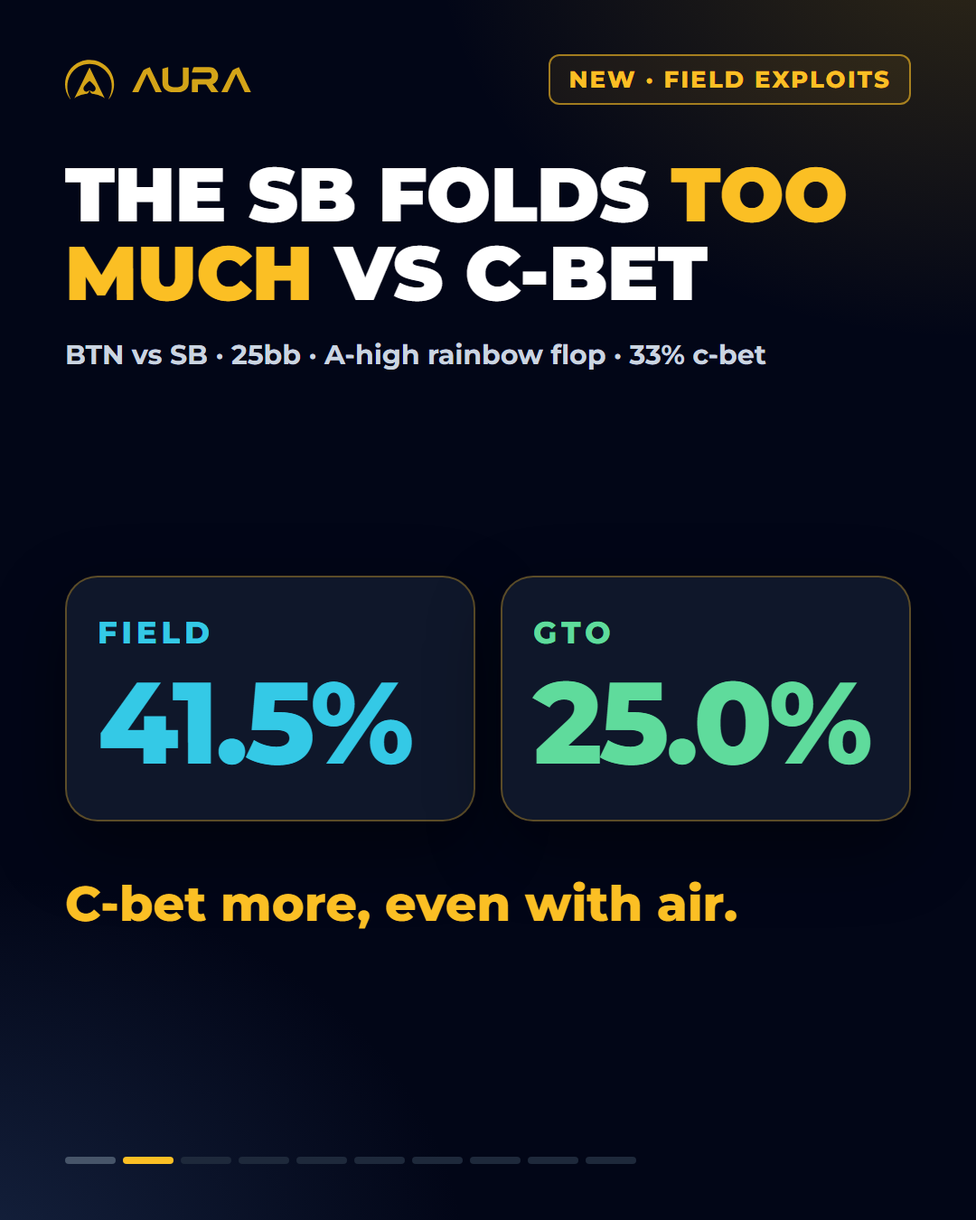
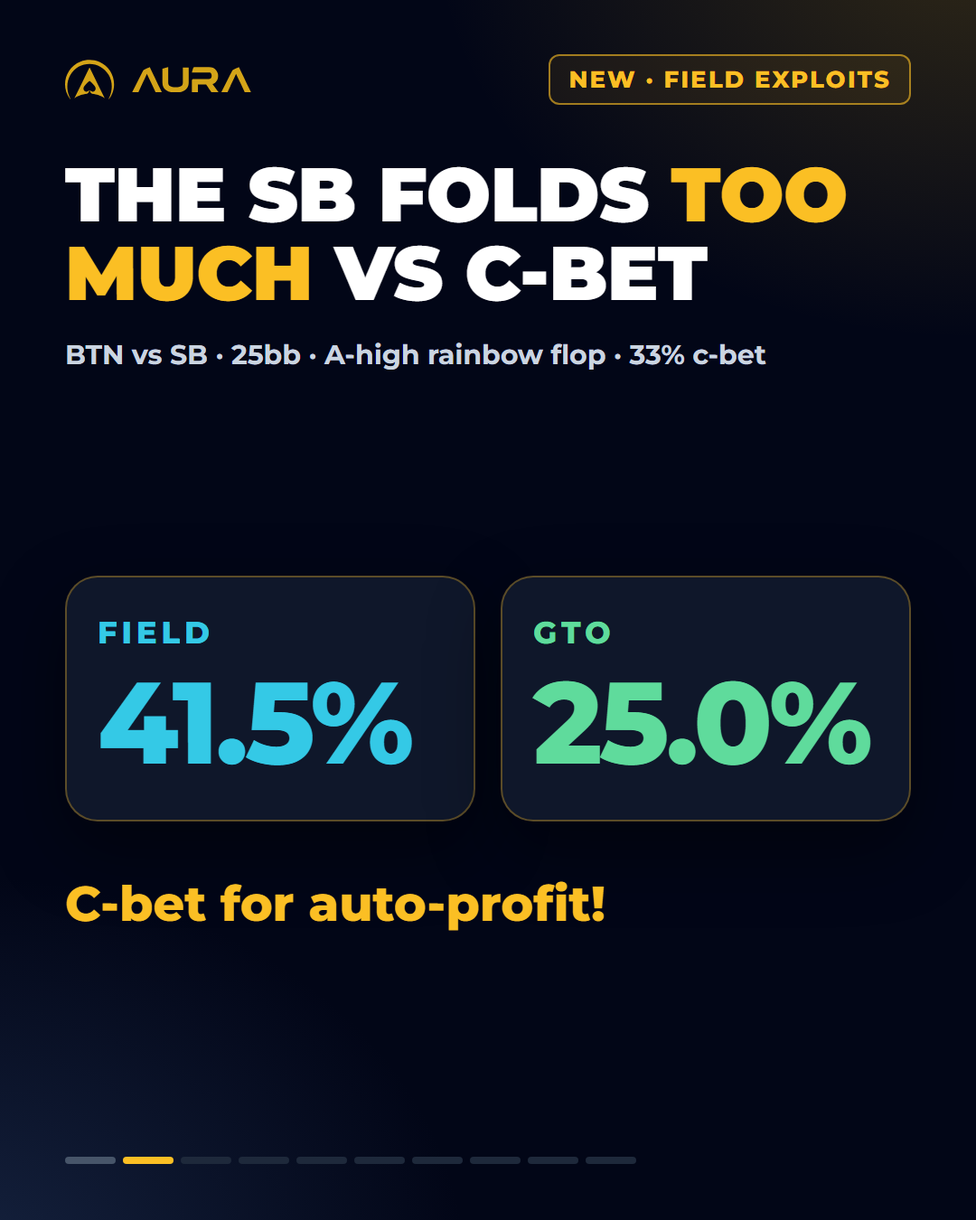
feat(ads): carrossel SINAL01 com os ajustes do Rafael (slides 2, 6 e 9)
- Slide 2: a linha de ação vira "C-bet for auto-profit!", nos dois idiomas.
- Slide 6: os ranges do field e do GTO ficam lado a lado, com as mãos que diferem em âmbar.
- Slide 9: a lista de módulos fica sem "GTO Mode" e com a Aura IA.

Changed region(s): [[0.2139, 0.7156, 0.7333, 0.7778]]

diff --git a/content/ads/sinal01/carrossel/fonte/en/carrossel-en-06.html b/content/ads/sinal01/carrossel/fonte/en/carrossel-en-06.html
@@ -8,8 +8,8 @@
 <path d="M306.766 264.784H384.095C387.141 264.784 389.709 264.054 391.785 262.581C393.862 261.12 395.448 258.853 396.555 255.794C397.046 254.572 397.411 253.351 397.65 252.13C397.889 250.782 398.015 249.448 398.015 248.1C398.015 244.801 397.462 241.993 396.367 239.664C395.272 237.221 393.623 235.269 391.42 233.796C390.325 233.066 389.155 232.575 387.934 232.336C386.713 231.97 385.429 231.782 384.083 231.782H299.429C300.889 226.896 303.091 219.618 306.024 209.973C306.515 208.386 307.37 207.102 308.591 206.12C309.938 205.138 311.461 204.659 313.173 204.659H384.448C392.264 204.659 399.224 206.07 405.34 208.877C411.445 211.811 416.706 216.092 421.098 221.708C424.144 225.864 426.41 230.258 427.882 234.904C429.468 239.425 430.261 244.31 430.261 249.573C430.261 255.806 429.166 261.485 426.963 266.622C424.887 271.634 421.765 276.154 417.612 280.184C415.409 282.261 413.031 284.1 410.463 285.686C407.895 287.147 405.152 288.381 402.219 289.35C409.305 298.882 419.865 313.186 433.923 332.25H398.015C391.911 323.335 382.685 309.887 370.351 291.919H329.673V332.25H299.441V272.314C299.441 270.236 300.171 268.461 301.644 267C303.104 265.54 304.815 264.797 306.779 264.797L306.766 264.784Z"/>
 <path d="M476.263 332.237H445.112C454.275 314.156 463.374 296.062 472.411 277.98C481.574 259.899 490.737 241.804 499.899 223.723C500.755 222.262 501.787 220.915 503.021 219.694C504.241 218.598 505.588 217.679 507.048 216.949C511.567 214.871 516.022 212.793 520.427 210.716C524.946 208.638 529.401 206.624 533.806 204.672C547.361 233.028 567.763 275.55 595 332.25H563.673C556.348 316.611 549.01 301.023 541.685 285.51C534.36 269.871 526.959 254.232 519.521 238.581C512.309 254.22 505.11 269.871 497.898 285.51C490.686 301.035 483.487 316.611 476.275 332.25L476.263 332.237Z"/></svg></span></div><span class="chip">Example · Field Ranges</span></div>
 <h1 class="hd">Field ranges, <span class="hl">hand by hand</span></h1>
-<p class="ln">90 preflop spots on the grid.</p>
-<div class="vis"><div class="gridw"><i class="r"></i><i class="r"></i><i class="r"></i><i class="r"></i><i class="r"></i><i class="r"></i><i class="r"></i><i class="r"></i><i class="r"></i><i class="r"></i><i class="r"></i><i class="r"></i><i class="r"></i><i class="r"></i><i class="r"></i><i class="r"></i><i class="r"></i><i class="r"></i><i class="r"></i><i class="m"></i><i class="m"></i><i class="m"></i><i class="m"></i><i class="f"></i><i class="f"></i><i class="f"></i><i class="r"></i><i class="r"></i><i class="r"></i><i class="r"></i><i class="r"></i><i class="r"></i><i class="m"></i><i class="f"></i><i class="f"></i><i class="f"></i><i class="f"></i><i class="f"></i><i class="f"></i><i class="r"></i><i class="r"></i><i class="r"></i><i class="r"></i><i class="r"></i><i class="r"></i><i class="m"></i><i class="f"></i><i class="f"></i><i class="f"></i><i class="f"></i><i class="f"></i><i class="f"></i><i class="r"></i><i class="m"></i><i class="m"></i><i class="m"></i><i class="r"></i><i class="r"></i><i class="r"></i><i class="m"></i><i class="f"></i><i class="f"></i><i class="f"></i><i class="f"></i><i class="f"></i><i class="m"></i><i class="f"></i><i class="f"></i><i class="f"></i><i class="f"></i><i class="r"></i><i class="r"></i><i class="r"></i><i class="f"></i><i class="f"></i><i class="f"></i><i class="f"></i><i class="f"></i><i class="f"></i><i class="f"></i><i class="f"></i><i class="f"></i><i class="f"></i><i class="f"></i><i class="r"></i><i class="r"></i><i class="m"></i><i class="f"></i><i class="f"></i><i class="f"></i><i class="f"></i><i class="f"></i><i class="f"></i><i class="f"></i><i class="f"></i><i class="f"></i><i class="f"></i><i class="f"></i><i class="r"></i><i class="r"></i><i class="f"></i><i class="f"></i><i class="f"></i><i class="f"></i><i class="f"></i><i class="f"></i><i class="f"></i><i class="f"></i><i class="f"></i><i class="f"></i><i class="f"></i><i class="f"></i><i class="r"></i><i class="r"></i><i class="f"></i><i class="f"></i><i class="f"></i><i class="f"></i><i class="f"></i><i class="f"></i><i class="f"></i><i class="f"></i><i class="f"></i><i class="f"></i><i class="f"></i><i class="f"></i><i class="r"></i><i class="m"></i><i class="f"></i><i class="f"></i><i class="f"></i><i class="f"></i><i class="f"></i><i class="f"></i><i class="f"></i><i class="f"></i><i class="f"></i><i class="f"></i><i class="f"></i><i class="f"></i><i class="r"></i><i class="f"></i><i class="f"></i><i class="f"></i><i class="f"></i><i class="f"></i><i class="f"></i><i class="f"></i><i class="f"></i><i class="f"></i><i class="f"></i><i class="f"></i><i class="f"></i><i class="f"></i><i class="r"></i><i class="f"></i><i class="f"></i><i class="f"></i><i class="f"></i><i class="f"></i><i class="f"></i><i class="f"></i><i class="f"></i><i class="f"></i><i class="f"></i><i class="f"></i><i class="f"></i><i class="f"></i><i class="r"></i></div></div>
+<p class="ln">In amber: where the field differs from GTO.</p>
+<div class="vis"><div class="duo"><div class="g fld"><span class="gl">Field</span><div class="gridw"><i class="r"></i><i class="r"></i><i class="r"></i><i class="r"></i><i class="r"></i><i class="r"></i><i class="r"></i><i class="r"></i><i class="r"></i><i class="r"></i><i class="r"></i><i class="r"></i><i class="r"></i><i class="r"></i><i class="r"></i><i class="r"></i><i class="r"></i><i class="r"></i><i class="r"></i><i class="m"></i><i class="m"></i><i class="f d"></i><i class="m"></i><i class="f"></i><i class="f"></i><i class="f"></i><i class="r"></i><i class="r"></i><i class="r"></i><i class="r"></i><i class="r"></i><i class="r"></i><i class="f d"></i><i class="f"></i><i class="f"></i><i class="f"></i><i class="f"></i><i class="f"></i><i class="f"></i><i class="r"></i><i class="r"></i><i class="r"></i><i class="r"></i><i class="r"></i><i class="r"></i><i class="f d"></i><i class="f"></i><i class="f"></i><i class="f"></i><i class="f"></i><i class="f"></i><i class="f"></i><i class="r"></i><i class="m"></i><i class="r d"></i><i class="m"></i><i class="r"></i><i class="r"></i><i class="r"></i><i class="f d"></i><i class="f"></i><i class="f"></i><i class="f"></i><i class="f"></i><i class="f"></i><i class="m"></i><i class="r d"></i><i class="r d"></i><i class="r d"></i><i class="f"></i><i class="r"></i><i class="r"></i><i class="r"></i><i class="f"></i><i class="f"></i><i class="f"></i><i class="f"></i><i class="f"></i><i class="r d"></i><i class="r d"></i><i class="f"></i><i class="f"></i><i class="r d"></i><i class="f"></i><i class="r"></i><i class="r"></i><i class="m"></i><i class="f"></i><i class="f"></i><i class="f"></i><i class="f"></i><i class="r d"></i><i class="f"></i><i class="f"></i><i class="f"></i><i class="f"></i><i class="f"></i><i class="f"></i><i class="r"></i><i class="r"></i><i class="f"></i><i class="f"></i><i class="f"></i><i class="f"></i><i class="f"></i><i class="f"></i><i class="f"></i><i class="f"></i><i class="f"></i><i class="f"></i><i class="f"></i><i class="f"></i><i class="r"></i><i class="r"></i><i class="f"></i><i class="f"></i><i class="f"></i><i class="f"></i><i class="f"></i><i class="f"></i><i class="f"></i><i class="f"></i><i class="f"></i><i class="f"></i><i class="f"></i><i class="f"></i><i class="r"></i><i class="m"></i><i class="f"></i><i class="f"></i><i class="f"></i><i class="f"></i><i class="f"></i><i class="f"></i><i class="f"></i><i class="f"></i><i class="f"></i><i class="f"></i><i class="f"></i><i class="f"></i><i class="r"></i><i class="f"></i><i class="f"></i><i class="f"></i><i class="f"></i><i class="f"></i><i class="f"></i><i class="f"></i><i class="f"></i><i class="f"></i><i class="f"></i><i class="f"></i><i class="f"></i><i class="f"></i><i class="r"></i><i class="f"></i><i class="f"></i><i class="f"></i><i class="f"></i><i class="f"></i><i class="f"></i><i class="f"></i><i class="f"></i><i class="f"></i><i class="f"></i><i class="f"></i><i class="f"></i><i class="f"></i><i class="r"></i></div></div><div class="g gt"><span class="gl">GTO</span><div class="gridw"><i class="r"></i><i class="r"></i><i class="r"></i><i class="r"></i><i class="r"></i><i class="r"></i><i class="r"></i><i class="r"></i><i class="r"></i><i class="r"></i><i class="r"></i><i class="r"></i><i class="r"></i><i class="r"></i><i class="r"></i><i class="r"></i><i class="r"></i><i class="r"></i><i class="r"></i><i class="m"></i><i class="m"></i><i class="m d"></i><i class="m"></i><i class="f"></i><i class="f"></i><i class="f"></i><i class="r"></i><i class="r"></i><i class="r"></i><i class="r"></i><i class="r"></i><i class="r"></i><i class="m d"></i><i class="f"></i><i class="f"></i><i class="f"></i><i class="f"></i><i class="f"></i><i class="f"></i><i class="r"></i><i class="r"></i><i class="r"></i><i class="r"></i><i class="r"></i><i class="r"></i><i class="m d"></i><i class="f"></i><i class="f"></i><i class="f"></i><i class="f"></i><i class="f"></i><i class="f"></i><i class="r"></i><i class="m"></i><i class="m d"></i><i class="m"></i><i class="r"></i><i class="r"></i><i class="r"></i><i class="m d"></i><i class="f"></i><i class="f"></i><i class="f"></i><i class="f"></i><i class="f"></i><i class="m"></i><i class="f d"></i><i class="f d"></i><i class="f d"></i><i class="f"></i><i class="r"></i><i class="r"></i><i class="r"></i><i class="f"></i><i class="f"></i><i class="f"></i><i class="f"></i><i class="f"></i><i class="f d"></i><i class="f d"></i><i class="f"></i><i class="f"></i><i class="f d"></i><i class="f"></i><i class="r"></i><i class="r"></i><i class="m"></i><i class="f"></i><i class="f"></i><i class="f"></i><i class="f"></i><i class="f d"></i><i class="f"></i><i class="f"></i><i class="f"></i><i class="f"></i><i class="f"></i><i class="f"></i><i class="r"></i><i class="r"></i><i class="f"></i><i class="f"></i><i class="f"></i><i class="f"></i><i class="f"></i><i class="f"></i><i class="f"></i><i class="f"></i><i class="f"></i><i class="f"></i><i class="f"></i><i class="f"></i><i class="r"></i><i class="r"></i><i class="f"></i><i class="f"></i><i class="f"></i><i class="f"></i><i class="f"></i><i class="f"></i><i class="f"></i><i class="f"></i><i class="f"></i><i class="f"></i><i class="f"></i><i class="f"></i><i class="r"></i><i class="m"></i><i class="f"></i><i class="f"></i><i class="f"></i><i class="f"></i><i class="f"></i><i class="f"></i><i class="f"></i><i class="f"></i><i class="f"></i><i class="f"></i><i class="f"></i><i class="f"></i><i class="r"></i><i class="f"></i><i class="f"></i><i class="f"></i><i class="f"></i><i class="f"></i><i class="f"></i><i class="f"></i><i class="f"></i><i class="f"></i><i class="f"></i><i class="f"></i><i class="f"></i><i class="f"></i><i class="r"></i><i class="f"></i><i class="f"></i><i class="f"></i><i class="f"></i><i class="f"></i><i class="f"></i><i class="f"></i><i class="f"></i><i class="f"></i><i class="f"></i><i class="f"></i><i class="f"></i><i class="f"></i><i class="r"></i></div></div></div></div>
 <div class="nav"><div class="segs"><i class="s past"></i><i class="s past"></i><i class="s past"></i><i class="s past"></i><i class="s past"></i><i class="s on"></i><i class="s"></i><i class="s"></i><i class="s"></i><i class="s"></i></div>
   </div>
 </body></html>

diff --git a/content/ads/sinal01/carrossel/fonte/pt/carrossel-pt-06.html b/content/ads/sinal01/carrossel/fonte/pt/carrossel-pt-06.html
@@ -8,8 +8,8 @@
 <path d="M306.766 264.784H384.095C387.141 264.784 389.709 264.054 391.785 262.581C393.862 261.12 395.448 258.853 396.555 255.794C397.046 254.572 397.411 253.351 397.65 252.13C397.889 250.782 398.015 249.448 398.015 248.1C398.015 244.801 397.462 241.993 396.367 239.664C395.272 237.221 393.623 235.269 391.42 233.796C390.325 233.066 389.155 232.575 387.934 232.336C386.713 231.97 385.429 231.782 384.083 231.782H299.429C300.889 226.896 303.091 219.618 306.024 209.973C306.515 208.386 307.37 207.102 308.591 206.12C309.938 205.138 311.461 204.659 313.173 204.659H384.448C392.264 204.659 399.224 206.07 405.34 208.877C411.445 211.811 416.706 216.092 421.098 221.708C424.144 225.864 426.41 230.258 427.882 234.904C429.468 239.425 430.261 244.31 430.261 249.573C430.261 255.806 429.166 261.485 426.963 266.622C424.887 271.634 421.765 276.154 417.612 280.184C415.409 282.261 413.031 284.1 410.463 285.686C407.895 287.147 405.152 288.381 402.219 289.35C409.305 298.882 419.865 313.186 433.923 332.25H398.015C391.911 323.335 382.685 309.887 370.351 291.919H329.673V332.25H299.441V272.314C299.441 270.236 300.171 268.461 301.644 267C303.104 265.54 304.815 264.797 306.779 264.797L306.766 264.784Z"/>
 <path d="M476.263 332.237H445.112C454.275 314.156 463.374 296.062 472.411 277.98C481.574 259.899 490.737 241.804 499.899 223.723C500.755 222.262 501.787 220.915 503.021 219.694C504.241 218.598 505.588 217.679 507.048 216.949C511.567 214.871 516.022 212.793 520.427 210.716C524.946 208.638 529.401 206.624 533.806 204.672C547.361 233.028 567.763 275.55 595 332.25H563.673C556.348 316.611 549.01 301.023 541.685 285.51C534.36 269.871 526.959 254.232 519.521 238.581C512.309 254.22 505.11 269.871 497.898 285.51C490.686 301.035 483.487 316.611 476.275 332.25L476.263 332.237Z"/></svg></span></div><span class="chip">Exemplo · Field Ranges</span></div>
 <h1 class="hd">Ranges do field, <span class="hl">mão a mão</span></h1>
-<p class="ln">90 situações preflop na grade.</p>
-<div class="vis"><div class="gridw"><i class="r"></i><i class="r"></i><i class="r"></i><i class="r"></i><i class="r"></i><i class="r"></i><i class="r"></i><i class="r"></i><i class="r"></i><i class="r"></i><i class="r"></i><i class="r"></i><i class="r"></i><i class="r"></i><i class="r"></i><i class="r"></i><i class="r"></i><i class="r"></i><i class="r"></i><i class="m"></i><i class="m"></i><i class="m"></i><i class="m"></i><i class="f"></i><i class="f"></i><i class="f"></i><i class="r"></i><i class="r"></i><i class="r"></i><i class="r"></i><i class="r"></i><i class="r"></i><i class="m"></i><i class="f"></i><i class="f"></i><i class="f"></i><i class="f"></i><i class="f"></i><i class="f"></i><i class="r"></i><i class="r"></i><i class="r"></i><i class="r"></i><i class="r"></i><i class="r"></i><i class="m"></i><i class="f"></i><i class="f"></i><i class="f"></i><i class="f"></i><i class="f"></i><i class="f"></i><i class="r"></i><i class="m"></i><i class="m"></i><i class="m"></i><i class="r"></i><i class="r"></i><i class="r"></i><i class="m"></i><i class="f"></i><i class="f"></i><i class="f"></i><i class="f"></i><i class="f"></i><i class="m"></i><i class="f"></i><i class="f"></i><i class="f"></i><i class="f"></i><i class="r"></i><i class="r"></i><i class="r"></i><i class="f"></i><i class="f"></i><i class="f"></i><i class="f"></i><i class="f"></i><i class="f"></i><i class="f"></i><i class="f"></i><i class="f"></i><i class="f"></i><i class="f"></i><i class="r"></i><i class="r"></i><i class="m"></i><i class="f"></i><i class="f"></i><i class="f"></i><i class="f"></i><i class="f"></i><i class="f"></i><i class="f"></i><i class="f"></i><i class="f"></i><i class="f"></i><i class="f"></i><i class="r"></i><i class="r"></i><i class="f"></i><i class="f"></i><i class="f"></i><i class="f"></i><i class="f"></i><i class="f"></i><i class="f"></i><i class="f"></i><i class="f"></i><i class="f"></i><i class="f"></i><i class="f"></i><i class="r"></i><i class="r"></i><i class="f"></i><i class="f"></i><i class="f"></i><i class="f"></i><i class="f"></i><i class="f"></i><i class="f"></i><i class="f"></i><i class="f"></i><i class="f"></i><i class="f"></i><i class="f"></i><i class="r"></i><i class="m"></i><i class="f"></i><i class="f"></i><i class="f"></i><i class="f"></i><i class="f"></i><i class="f"></i><i class="f"></i><i class="f"></i><i class="f"></i><i class="f"></i><i class="f"></i><i class="f"></i><i class="r"></i><i class="f"></i><i class="f"></i><i class="f"></i><i class="f"></i><i class="f"></i><i class="f"></i><i class="f"></i><i class="f"></i><i class="f"></i><i class="f"></i><i class="f"></i><i class="f"></i><i class="f"></i><i class="r"></i><i class="f"></i><i class="f"></i><i class="f"></i><i class="f"></i><i class="f"></i><i class="f"></i><i class="f"></i><i class="f"></i><i class="f"></i><i class="f"></i><i class="f"></i><i class="f"></i><i class="f"></i><i class="r"></i></div></div>
+<p class="ln">Em âmbar: onde o field difere do GTO.</p>
+<div class="vis"><div class="duo"><div class="g fld"><span class="gl">Field</span><div class="gridw"><i class="r"></i><i class="r"></i><i class="r"></i><i class="r"></i><i class="r"></i><i class="r"></i><i class="r"></i><i class="r"></i><i class="r"></i><i class="r"></i><i class="r"></i><i class="r"></i><i class="r"></i><i class="r"></i><i class="r"></i><i class="r"></i><i class="r"></i><i class="r"></i><i class="r"></i><i class="m"></i><i class="m"></i><i class="f d"></i><i class="m"></i><i class="f"></i><i class="f"></i><i class="f"></i><i class="r"></i><i class="r"></i><i class="r"></i><i class="r"></i><i class="r"></i><i class="r"></i><i class="f d"></i><i class="f"></i><i class="f"></i><i class="f"></i><i class="f"></i><i class="f"></i><i class="f"></i><i class="r"></i><i class="r"></i><i class="r"></i><i class="r"></i><i class="r"></i><i class="r"></i><i class="f d"></i><i class="f"></i><i class="f"></i><i class="f"></i><i class="f"></i><i class="f"></i><i class="f"></i><i class="r"></i><i class="m"></i><i class="r d"></i><i class="m"></i><i class="r"></i><i class="r"></i><i class="r"></i><i class="f d"></i><i class="f"></i><i class="f"></i><i class="f"></i><i class="f"></i><i class="f"></i><i class="m"></i><i class="r d"></i><i class="r d"></i><i class="r d"></i><i class="f"></i><i class="r"></i><i class="r"></i><i class="r"></i><i class="f"></i><i class="f"></i><i class="f"></i><i class="f"></i><i class="f"></i><i class="r d"></i><i class="r d"></i><i class="f"></i><i class="f"></i><i class="r d"></i><i class="f"></i><i class="r"></i><i class="r"></i><i class="m"></i><i class="f"></i><i class="f"></i><i class="f"></i><i class="f"></i><i class="r d"></i><i class="f"></i><i class="f"></i><i class="f"></i><i class="f"></i><i class="f"></i><i class="f"></i><i class="r"></i><i class="r"></i><i class="f"></i><i class="f"></i><i class="f"></i><i class="f"></i><i class="f"></i><i class="f"></i><i class="f"></i><i class="f"></i><i class="f"></i><i class="f"></i><i class="f"></i><i class="f"></i><i class="r"></i><i class="r"></i><i class="f"></i><i class="f"></i><i class="f"></i><i class="f"></i><i class="f"></i><i class="f"></i><i class="f"></i><i class="f"></i><i class="f"></i><i class="f"></i><i class="f"></i><i class="f"></i><i class="r"></i><i class="m"></i><i class="f"></i><i class="f"></i><i class="f"></i><i class="f"></i><i class="f"></i><i class="f"></i><i class="f"></i><i class="f"></i><i class="f"></i><i class="f"></i><i class="f"></i><i class="f"></i><i class="r"></i><i class="f"></i><i class="f"></i><i class="f"></i><i class="f"></i><i class="f"></i><i class="f"></i><i class="f"></i><i class="f"></i><i class="f"></i><i class="f"></i><i class="f"></i><i class="f"></i><i class="f"></i><i class="r"></i><i class="f"></i><i class="f"></i><i class="f"></i><i class="f"></i><i class="f"></i><i class="f"></i><i class="f"></i><i class="f"></i><i class="f"></i><i class="f"></i><i class="f"></i><i class="f"></i><i class="f"></i><i class="r"></i></div></div><div class="g gt"><span class="gl">GTO</span><div class="gridw"><i class="r"></i><i class="r"></i><i class="r"></i><i class="r"></i><i class="r"></i><i class="r"></i><i class="r"></i><i class="r"></i><i class="r"></i><i class="r"></i><i class="r"></i><i class="r"></i><i class="r"></i><i class="r"></i><i class="r"></i><i class="r"></i><i class="r"></i><i class="r"></i><i class="r"></i><i class="m"></i><i class="m"></i><i class="m d"></i><i class="m"></i><i class="f"></i><i class="f"></i><i class="f"></i><i class="r"></i><i class="r"></i><i class="r"></i><i class="r"></i><i class="r"></i><i class="r"></i><i class="m d"></i><i class="f"></i><i class="f"></i><i class="f"></i><i class="f"></i><i class="f"></i><i class="f"></i><i class="r"></i><i class="r"></i><i class="r"></i><i class="r"></i><i class="r"></i><i class="r"></i><i class="m d"></i><i class="f"></i><i class="f"></i><i class="f"></i><i class="f"></i><i class="f"></i><i class="f"></i><i class="r"></i><i class="m"></i><i class="m d"></i><i class="m"></i><i class="r"></i><i class="r"></i><i class="r"></i><i class="m d"></i><i class="f"></i><i class="f"></i><i class="f"></i><i class="f"></i><i class="f"></i><i class="m"></i><i class="f d"></i><i class="f d"></i><i class="f d"></i><i class="f"></i><i class="r"></i><i class="r"></i><i class="r"></i><i class="f"></i><i class="f"></i><i class="f"></i><i class="f"></i><i class="f"></i><i class="f d"></i><i class="f d"></i><i class="f"></i><i class="f"></i><i class="f d"></i><i class="f"></i><i class="r"></i><i class="r"></i><i class="m"></i><i class="f"></i><i class="f"></i><i class="f"></i><i class="f"></i><i class="f d"></i><i class="f"></i><i class="f"></i><i class="f"></i><i class="f"></i><i class="f"></i><i class="f"></i><i class="r"></i><i class="r"></i><i class="f"></i><i class="f"></i><i class="f"></i><i class="f"></i><i class="f"></i><i class="f"></i><i class="f"></i><i class="f"></i><i class="f"></i><i class="f"></i><i class="f"></i><i class="f"></i><i class="r"></i><i class="r"></i><i class="f"></i><i class="f"></i><i class="f"></i><i class="f"></i><i class="f"></i><i class="f"></i><i class="f"></i><i class="f"></i><i class="f"></i><i class="f"></i><i class="f"></i><i class="f"></i><i class="r"></i><i class="m"></i><i class="f"></i><i class="f"></i><i class="f"></i><i class="f"></i><i class="f"></i><i class="f"></i><i class="f"></i><i class="f"></i><i class="f"></i><i class="f"></i><i class="f"></i><i class="f"></i><i class="r"></i><i class="f"></i><i class="f"></i><i class="f"></i><i class="f"></i><i class="f"></i><i class="f"></i><i class="f"></i><i class="f"></i><i class="f"></i><i class="f"></i><i class="f"></i><i class="f"></i><i class="f"></i><i class="r"></i><i class="f"></i><i class="f"></i><i class="f"></i><i class="f"></i><i class="f"></i><i class="f"></i><i class="f"></i><i class="f"></i><i class="f"></i><i class="f"></i><i class="f"></i><i class="f"></i><i class="f"></i><i class="r"></i></div></div></div></div>
 <div class="nav"><div class="segs"><i class="s past"></i><i class="s past"></i><i class="s past"></i><i class="s past"></i><i class="s past"></i><i class="s on"></i><i class="s"></i><i class="s"></i><i class="s"></i><i class="s"></i></div>
   </div>
 </body></html>

diff --git a/content/ads/sinal01/carrossel/fonte/pt/carrossel-pt-09.html b/content/ads/sinal01/carrossel/fonte/pt/carrossel-pt-09.html
@@ -9,7 +9,7 @@
 <path d="M476.263 332.237H445.112C454.275 314.156 463.374 296.062 472.411 277.98C481.574 259.899 490.737 241.804 499.899 223.723C500.755 222.262 501.787 220.915 503.021 219.694C504.241 218.598 505.588 217.679 507.048 216.949C511.567 214.871 516.022 212.793 520.427 210.716C524.946 208.638 529.401 206.624 533.806 204.672C547.361 233.028 567.763 275.55 595 332.25H563.673C556.348 316.611 549.01 301.023 541.685 285.51C534.36 269.871 526.959 254.232 519.521 238.581C512.309 254.22 505.11 269.871 497.898 285.51C490.686 301.035 483.487 316.611 476.275 332.25L476.263 332.237Z"/></svg></span></div><span class="chip">Plano Individual</span></div>
 <h1 class="hd">Todos os módulos, <span class="hl">um login</span></h1>
 
-<div class="vis"><div class="mods"><div class="m"><span class="ck"><svg viewBox="0 0 24 24" fill="none" stroke="currentColor" stroke-width="3.4" stroke-linecap="round" stroke-linejoin="round"><path d="M4 12.5l5 5L20 6.5"/></svg></span>Preflop Analysis</div><div class="m"><span class="ck"><svg viewBox="0 0 24 24" fill="none" stroke="currentColor" stroke-width="3.4" stroke-linecap="round" stroke-linejoin="round"><path d="M4 12.5l5 5L20 6.5"/></svg></span>Postflop Analysis</div><div class="m"><span class="ck"><svg viewBox="0 0 24 24" fill="none" stroke="currentColor" stroke-width="3.4" stroke-linecap="round" stroke-linejoin="round"><path d="M4 12.5l5 5L20 6.5"/></svg></span>Modo GTO</div><div class="m"><span class="ck"><svg viewBox="0 0 24 24" fill="none" stroke="currentColor" stroke-width="3.4" stroke-linecap="round" stroke-linejoin="round"><path d="M4 12.5l5 5L20 6.5"/></svg></span>Field Exploits</div><div class="m"><span class="ck"><svg viewBox="0 0 24 24" fill="none" stroke="currentColor" stroke-width="3.4" stroke-linecap="round" stroke-linejoin="round"><path d="M4 12.5l5 5L20 6.5"/></svg></span>Field Ranges</div><div class="m"><span class="ck"><svg viewBox="0 0 24 24" fill="none" stroke="currentColor" stroke-width="3.4" stroke-linecap="round" stroke-linejoin="round"><path d="M4 12.5l5 5L20 6.5"/></svg></span>Field Trends</div><div class="m"><span class="ck"><svg viewBox="0 0 24 24" fill="none" stroke="currentColor" stroke-width="3.4" stroke-linecap="round" stroke-linejoin="round"><path d="M4 12.5l5 5L20 6.5"/></svg></span>Node-by-Node</div></div></div>
+<div class="vis"><div class="mods"><div class="m"><span class="ck"><svg viewBox="0 0 24 24" fill="none" stroke="currentColor" stroke-width="3.4" stroke-linecap="round" stroke-linejoin="round"><path d="M4 12.5l5 5L20 6.5"/></svg></span>Preflop Analysis</div><div class="m"><span class="ck"><svg viewBox="0 0 24 24" fill="none" stroke="currentColor" stroke-width="3.4" stroke-linecap="round" stroke-linejoin="round"><path d="M4 12.5l5 5L20 6.5"/></svg></span>Postflop Analysis</div><div class="m"><span class="ck"><svg viewBox="0 0 24 24" fill="none" stroke="currentColor" stroke-width="3.4" stroke-linecap="round" stroke-linejoin="round"><path d="M4 12.5l5 5L20 6.5"/></svg></span>Field Ranges</div><div class="m"><span class="ck"><svg viewBox="0 0 24 24" fill="none" stroke="currentColor" stroke-width="3.4" stroke-linecap="round" stroke-linejoin="round"><path d="M4 12.5l5 5L20 6.5"/></svg></span>Field Exploits</div><div class="m"><span class="ck"><svg viewBox="0 0 24 24" fill="none" stroke="currentColor" stroke-width="3.4" stroke-linecap="round" stroke-linejoin="round"><path d="M4 12.5l5 5L20 6.5"/></svg></span>Field Trends</div><div class="m"><span class="ck"><svg viewBox="0 0 24 24" fill="none" stroke="currentColor" stroke-width="3.4" stroke-linecap="round" stroke-linejoin="round"><path d="M4 12.5l5 5L20 6.5"/></svg></span>Node-by-Node</div><div class="m"><span class="ck"><svg viewBox="0 0 24 24" fill="none" stroke="currentColor" stroke-width="3.4" stroke-linecap="round" stroke-linejoin="round"><path d="M4 12.5l5 5L20 6.5"/></svg></span>Aura IA</div></div></div>
 <div class="nav"><div class="segs"><i class="s past"></i><i class="s past"></i><i class="s past"></i><i class="s past"></i><i class="s past"></i><i class="s past"></i><i class="s past"></i><i class="s past"></i><i class="s on"></i><i class="s"></i></div>
   </div>
 </body></html>

diff --git a/content/ads/sinal01/carrossel/fonte/en/carrossel-en-09.html b/content/ads/sinal01/carrossel/fonte/en/carrossel-en-09.html
@@ -9,7 +9,7 @@
 <path d="M476.263 332.237H445.112C454.275 314.156 463.374 296.062 472.411 277.98C481.574 259.899 490.737 241.804 499.899 223.723C500.755 222.262 501.787 220.915 503.021 219.694C504.241 218.598 505.588 217.679 507.048 216.949C511.567 214.871 516.022 212.793 520.427 210.716C524.946 208.638 529.401 206.624 533.806 204.672C547.361 233.028 567.763 275.55 595 332.25H563.673C556.348 316.611 549.01 301.023 541.685 285.51C534.36 269.871 526.959 254.232 519.521 238.581C512.309 254.22 505.11 269.871 497.898 285.51C490.686 301.035 483.487 316.611 476.275 332.25L476.263 332.237Z"/></svg></span></div><span class="chip">Individual plan</span></div>
 <h1 class="hd">Every module, <span class="hl">one login</span></h1>
 
-<div class="vis"><div class="mods"><div class="m"><span class="ck"><svg viewBox="0 0 24 24" fill="none" stroke="currentColor" stroke-width="3.4" stroke-linecap="round" stroke-linejoin="round"><path d="M4 12.5l5 5L20 6.5"/></svg></span>Preflop Analysis</div><div class="m"><span class="ck"><svg viewBox="0 0 24 24" fill="none" stroke="currentColor" stroke-width="3.4" stroke-linecap="round" stroke-linejoin="round"><path d="M4 12.5l5 5L20 6.5"/></svg></span>Postflop Analysis</div><div class="m"><span class="ck"><svg viewBox="0 0 24 24" fill="none" stroke="currentColor" stroke-width="3.4" stroke-linecap="round" stroke-linejoin="round"><path d="M4 12.5l5 5L20 6.5"/></svg></span>GTO Mode</div><div class="m"><span class="ck"><svg viewBox="0 0 24 24" fill="none" stroke="currentColor" stroke-width="3.4" stroke-linecap="round" stroke-linejoin="round"><path d="M4 12.5l5 5L20 6.5"/></svg></span>Field Exploits</div><div class="m"><span class="ck"><svg viewBox="0 0 24 24" fill="none" stroke="currentColor" stroke-width="3.4" stroke-linecap="round" stroke-linejoin="round"><path d="M4 12.5l5 5L20 6.5"/></svg></span>Field Ranges</div><div class="m"><span class="ck"><svg viewBox="0 0 24 24" fill="none" stroke="currentColor" stroke-width="3.4" stroke-linecap="round" stroke-linejoin="round"><path d="M4 12.5l5 5L20 6.5"/></svg></span>Field Trends</div><div class="m"><span class="ck"><svg viewBox="0 0 24 24" fill="none" stroke="currentColor" stroke-width="3.4" stroke-linecap="round" stroke-linejoin="round"><path d="M4 12.5l5 5L20 6.5"/></svg></span>Node-by-Node</div></div></div>
+<div class="vis"><div class="mods"><div class="m"><span class="ck"><svg viewBox="0 0 24 24" fill="none" stroke="currentColor" stroke-width="3.4" stroke-linecap="round" stroke-linejoin="round"><path d="M4 12.5l5 5L20 6.5"/></svg></span>Preflop Analysis</div><div class="m"><span class="ck"><svg viewBox="0 0 24 24" fill="none" stroke="currentColor" stroke-width="3.4" stroke-linecap="round" stroke-linejoin="round"><path d="M4 12.5l5 5L20 6.5"/></svg></span>Postflop Analysis</div><div class="m"><span class="ck"><svg viewBox="0 0 24 24" fill="none" stroke="currentColor" stroke-width="3.4" stroke-linecap="round" stroke-linejoin="round"><path d="M4 12.5l5 5L20 6.5"/></svg></span>Field Ranges</div><div class="m"><span class="ck"><svg viewBox="0 0 24 24" fill="none" stroke="currentColor" stroke-width="3.4" stroke-linecap="round" stroke-linejoin="round"><path d="M4 12.5l5 5L20 6.5"/></svg></span>Field Exploits</div><div class="m"><span class="ck"><svg viewBox="0 0 24 24" fill="none" stroke="currentColor" stroke-width="3.4" stroke-linecap="round" stroke-linejoin="round"><path d="M4 12.5l5 5L20 6.5"/></svg></span>Field Trends</div><div class="m"><span class="ck"><svg viewBox="0 0 24 24" fill="none" stroke="currentColor" stroke-width="3.4" stroke-linecap="round" stroke-linejoin="round"><path d="M4 12.5l5 5L20 6.5"/></svg></span>Node-by-Node</div><div class="m"><span class="ck"><svg viewBox="0 0 24 24" fill="none" stroke="currentColor" stroke-width="3.4" stroke-linecap="round" stroke-linejoin="round"><path d="M4 12.5l5 5L20 6.5"/></svg></span>Aura IA</div></div></div>
 <div class="nav"><div class="segs"><i class="s past"></i><i class="s past"></i><i class="s past"></i><i class="s past"></i><i class="s past"></i><i class="s past"></i><i class="s past"></i><i class="s past"></i><i class="s on"></i><i class="s"></i></div>
   </div>
 </body></html>

diff --git a/content/ads/sinal01/carrossel/fonte/en/carrossel.css b/content/ads/sinal01/carrossel/fonte/en/carrossel.css
@@ -59,8 +59,13 @@ p.ctx{font-size:30px;font-weight:700;line-height:1.3;color:#CBD5E1;margin-top:26
 .pr.w1 i{width:26%}.pr.w2 i{width:38%}.pr.w3 i{width:54%}.pr.w4 i{width:76%}.pr.w5 i{width:64%}.pr.w6 i{width:44%}
 
 /* 06 grade */
-.gridw{display:grid;width:730px;margin:20px auto 0;grid-template-columns:repeat(13,1fr);gap:4px}
-.gridw i{display:block;aspect-ratio:1/1;border-radius:6px}
+.duo{display:flex;gap:24px;margin-top:16px}
+.duo .g{flex:1;display:flex;flex-direction:column;gap:18px}
+.duo .gl{font-size:44px;font-weight:800;letter-spacing:.06em;text-transform:uppercase}
+.duo .g.fld .gl{color:#34C9E6}.duo .g.gt .gl{color:#5FDB9C}
+.gridw{display:grid;width:100%;grid-template-columns:repeat(13,1fr);gap:3px}
+.gridw i{display:block;aspect-ratio:1/1;border-radius:4px;opacity:.55}
+.gridw i.d{opacity:1;box-shadow:inset 0 0 0 4px #FBBF24}
 .gridw i.r{background:#AD2C34}.gridw i.f{background:#16384A}.gridw i.m{background:linear-gradient(90deg,#AD2C34 0 55%,#16384A 55% 100%)}
 
 /* 07 tendencia e 08 arvore */

diff --git a/content/ads/sinal01/carrossel/fonte/pt/carrossel.css b/content/ads/sinal01/carrossel/fonte/pt/carrossel.css
@@ -59,8 +59,13 @@ p.ctx{font-size:30px;font-weight:700;line-height:1.3;color:#CBD5E1;margin-top:26
 .pr.w1 i{width:26%}.pr.w2 i{width:38%}.pr.w3 i{width:54%}.pr.w4 i{width:76%}.pr.w5 i{width:64%}.pr.w6 i{width:44%}
 
 /* 06 grade */
-.gridw{display:grid;width:730px;margin:20px auto 0;grid-template-columns:repeat(13,1fr);gap:4px}
-.gridw i{display:block;aspect-ratio:1/1;border-radius:6px}
+.duo{display:flex;gap:24px;margin-top:16px}
+.duo .g{flex:1;display:flex;flex-direction:column;gap:18px}
+.duo .gl{font-size:44px;font-weight:800;letter-spacing:.06em;text-transform:uppercase}
+.duo .g.fld .gl{color:#34C9E6}.duo .g.gt .gl{color:#5FDB9C}
+.gridw{display:grid;width:100%;grid-template-columns:repeat(13,1fr);gap:3px}
+.gridw i{display:block;aspect-ratio:1/1;border-radius:4px;opacity:.55}
+.gridw i.d{opacity:1;box-shadow:inset 0 0 0 4px #FBBF24}
 .gridw i.r{background:#AD2C34}.gridw i.f{background:#16384A}.gridw i.m{background:linear-gradient(90deg,#AD2C34 0 55%,#16384A 55% 100%)}
 
 /* 07 tendencia e 08 arvore */

diff --git a/content/ads/sinal01/carrossel/fonte/pt/carrossel-pt-02.html b/content/ads/sinal01/carrossel/fonte/pt/carrossel-pt-02.html
@@ -11,7 +11,7 @@
 <p class="ctx">BTN vs SB · 25bb · flop A-high rainbow · c-bet de 33%</p>
 <div class="vis"><div class="pair"><div class="cell f"><span class="k">Field</span><span class="v">41,5%</span></div>
     <div class="cell g"><span class="k">GTO</span><span class="v">25,0%</span></div></div>
-    <div class="act">C-bet mais vezes, inclusive sem mão.</div></div>
+    <div class="act">C-bet for auto-profit!</div></div>
 <div class="nav"><div class="segs"><i class="s past"></i><i class="s on"></i><i class="s"></i><i class="s"></i><i class="s"></i><i class="s"></i><i class="s"></i><i class="s"></i><i class="s"></i><i class="s"></i></div>
   </div>
 </body></html>

diff --git a/content/ads/sinal01/carrossel/fonte/en/carrossel-en-02.html b/content/ads/sinal01/carrossel/fonte/en/carrossel-en-02.html
@@ -11,7 +11,7 @@
 <p class="ctx">BTN vs SB · 25bb · A-high rainbow flop · 33% c-bet</p>
 <div class="vis"><div class="pair"><div class="cell f"><span class="k">Field</span><span class="v">41.5%</span></div>
     <div class="cell g"><span class="k">GTO</span><span class="v">25.0%</span></div></div>
-    <div class="act">C-bet more, even with air.</div></div>
+    <div class="act">C-bet for auto-profit!</div></div>
 <div class="nav"><div class="segs"><i class="s past"></i><i class="s on"></i><i class="s"></i><i class="s"></i><i class="s"></i><i class="s"></i><i class="s"></i><i class="s"></i><i class="s"></i><i class="s"></i></div>
   </div>
 </body></html>

diff --git a/content/ads/sinal01/carrossel/copy-carrossel.md b/content/ads/sinal01/carrossel/copy-carrossel.md
@@ -20,14 +20,14 @@ Visual da capa: fundo navy, título em caps, logo da Aura. Sem visual extra, sem
 
 | Cartão | Título | Linha de apoio | Visual do cartão |
 | --- | --- | --- | --- |
-| 2 | O SB folda demais contra c-bet | Contexto: BTN vs SB · 25bb · flop A-high rainbow · c-bet de 33%. Dois números grandes: Field 41,5% e GTO 25,0%. Ação: C-bet mais vezes, inclusive sem mão. | Field Exploits: só os dois números lado a lado, sem barra, rótulo de overfold, contagem de mãos ou legenda. Chip "Novo · Field Exploits" (único rótulo). |
+| 2 | O SB folda demais contra c-bet | Contexto: BTN vs SB · 25bb · flop A-high rainbow · c-bet de 33%. Dois números grandes: Field 41,5% e GTO 25,0%. Ação: C-bet for auto-profit! (em inglês nos dois idiomas) | Field Exploits: só os dois números lado a lado, sem barra, rótulo de overfold, contagem de mãos ou legenda. Chip "Novo · Field Exploits" (único rótulo). |
 | 3 | GTO ao lado de cada spot | Visual: 6,9 mi+ com a legenda "pontos de decisão GTO, do flop ao river". | Modo GTO: o número grande e nada mais. Chip "Modo GTO". |
 | 4 | Ação e reação | C-bet, barrel e raise do field, e como reagem. | Postflop Analysis: só as 3 barras de reação (Fold, Call, Raise), sem valor. Chip único "Exemplo · Postflop Analysis". Barras Fold 52, Call 34, Raise 14 (largura relativa, somam 100), sem número. |
 | 5 | Preflop, posição a posição | RFI, 3-bet e squeeze por buy-in e etapa. | Preflop Analysis: uma coluna de posições (UTG a BB) com barras sem valor. Chip único "Exemplo · Preflop Analysis". Sem barra de RFI no BB: a coluna vai de UTG a SB. |
-| 6 | Ranges do field, mão a mão | 90 situações preflop na grade. | Field Ranges: grade 13x13 grande, sem legenda de cores. Chip único "Exemplo · Field Ranges". |
+| 6 | Ranges do field, mão a mão | Em âmbar: onde o field difere do GTO. | Field Ranges: dois grids 13x13 lado a lado, "Field" e "GTO"; as mãos que diferem têm borda âmbar e as iguais ficam apagadas; sem legenda. Chip único "Exemplo · Field Ranges". |
 | 7 | O que mudou no field | Trimestre a trimestre: mudou ou oscilou? | Field Trends: uma linha com a faixa de variação normal, sem legenda. Chip único "Exemplo · Field Trends". |
 | 8 | A árvore da mão, nó a nó | De quem é a vez e a frequência de cada ação. | Node-by-Node: árvore simples com Check, Donk e C-bet, sem número e sem filtro de textura. Chip único "Exemplo · Node-by-Node". |
-| 9 | Todos os módulos, um login | (sem linha de apoio) | Lista dos 7 módulos: Preflop Analysis, Postflop Analysis, Modo GTO, Field Exploits, Field Ranges, Field Trends, Node-by-Node. Chip "Plano Individual". |
+| 9 | Todos os módulos, um login | (sem linha de apoio) | Lista dos 7 módulos: Preflop Analysis, Postflop Analysis, Field Ranges, Field Exploits, Field Trends, Node-by-Node, Aura IA. Chip "Plano Individual". |
 
 Regra de todos os cartões: título curto, no máximo 1 linha de apoio, 1 visual grande, no máximo 1 selo ou rótulo (o chip do módulo no topo; nos cartões 4 a 8 o chip junta exemplo e módulo, ex.: "Exemplo · Field Ranges"). Sem rodapé de dados.
 

diff --git a/content/ads/sinal01/carrossel/en/copy-carrossel.md b/content/ads/sinal01/carrossel/en/copy-carrossel.md
@@ -20,14 +20,14 @@ Cover visual: navy background, caps headline, Aura logo. No extra visual, no car
 
 | Card | Title | Support line | Card visual |
 | --- | --- | --- | --- |
-| 2 | The SB folds too much vs c-bet | Context: BTN vs SB · 25bb · A-high rainbow flop · 33% c-bet. Two big numbers: Field 41.5% and GTO 25.0%. Action: C-bet more, even with air. | Field Exploits: only the two numbers side by side, no bar, overfold label, hand count or legend. "New · Field Exploits" chip (the only label). |
+| 2 | The SB folds too much vs c-bet | Context: BTN vs SB · 25bb · A-high rainbow flop · 33% c-bet. Two big numbers: Field 41.5% and GTO 25.0%. Action: C-bet for auto-profit! | Field Exploits: only the two numbers side by side, no bar, overfold label, hand count or legend. "New · Field Exploits" chip (the only label). |
 | 3 | GTO next to every spot | Visual: 6.9M+ with the caption "GTO decision points, flop to river". | GTO Mode: the big number and nothing else. "GTO Mode" chip. |
 | 4 | Action and reaction | C-bet, barrel, raise, and how they respond. | Postflop Analysis: only the 3 reaction bars (Fold, Call, Raise), no values. Single chip "Example · Postflop Analysis". Bars Fold 52, Call 34, Raise 14 (relative width, sum 100), no visible number. |
 | 5 | Preflop, position by position | RFI, 3-bet and squeeze by buy-in and stage. | Preflop Analysis: one column of positions (UTG to BB) with value-free bars. Single chip "Example · Preflop Analysis". No RFI bar for the BB: the column runs UTG to SB. |
-| 6 | Field ranges, hand by hand | 90 preflop spots on the grid. | Field Ranges: large 13x13 grid, no color legend. Single chip "Example · Field Ranges". |
+| 6 | Field ranges, hand by hand | In amber: where the field differs from GTO. | Field Ranges: two 13x13 grids side by side, "Field" and "GTO"; hands that differ get an amber border and the equal ones are dimmed; no legend. Single chip "Example · Field Ranges". |
 | 7 | What changed in the field | Real change or normal variation? | Field Trends: one line with the normal variation band, no legend. Single chip "Example · Field Trends". |
 | 8 | The hand tree, node by node | Whose turn it is and how often each action. | Node-by-Node: simple tree with Check, Donk and C-bet, no number and no texture filter. Single chip "Example · Node-by-Node". |
-| 9 | Every module, one login | (no support line) | List of the 7 modules: Preflop Analysis, Postflop Analysis, GTO Mode, Field Exploits, Field Ranges, Field Trends, Node-by-Node. "Individual plan" chip. |
+| 9 | Every module, one login | (no support line) | List of the 7 modules: Preflop Analysis, Postflop Analysis, Field Ranges, Field Exploits, Field Trends, Node-by-Node, Aura IA. "Individual plan" chip. |
 
 Rule for every card: short title, at most 1 support line, 1 big visual, at most 1 badge or label (the module chip at the top; on cards 4 to 8 the chip joins example and module, e.g. "Example · Field Ranges"). No data footer.
 
